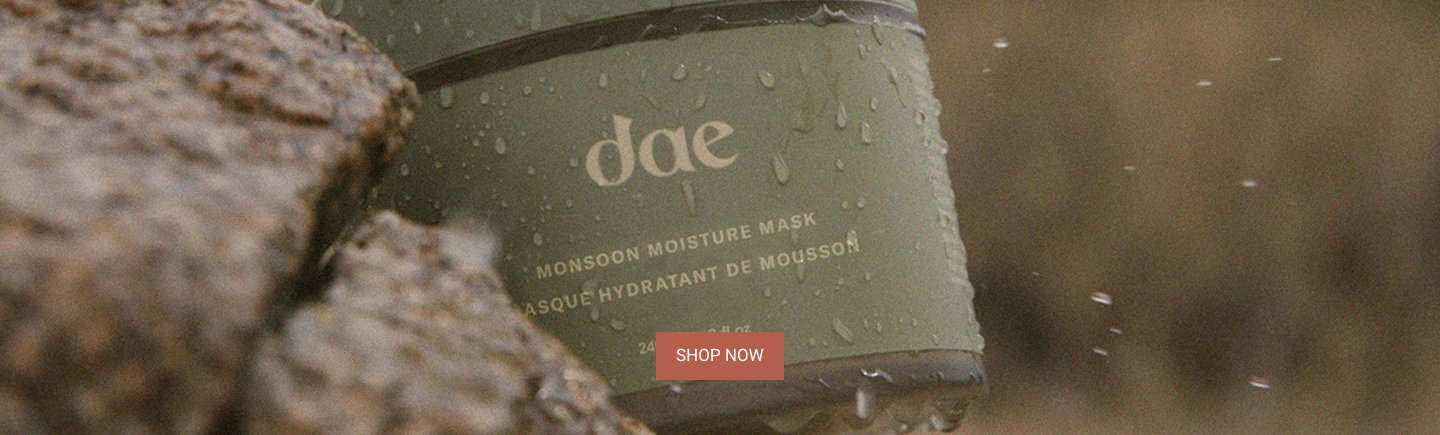
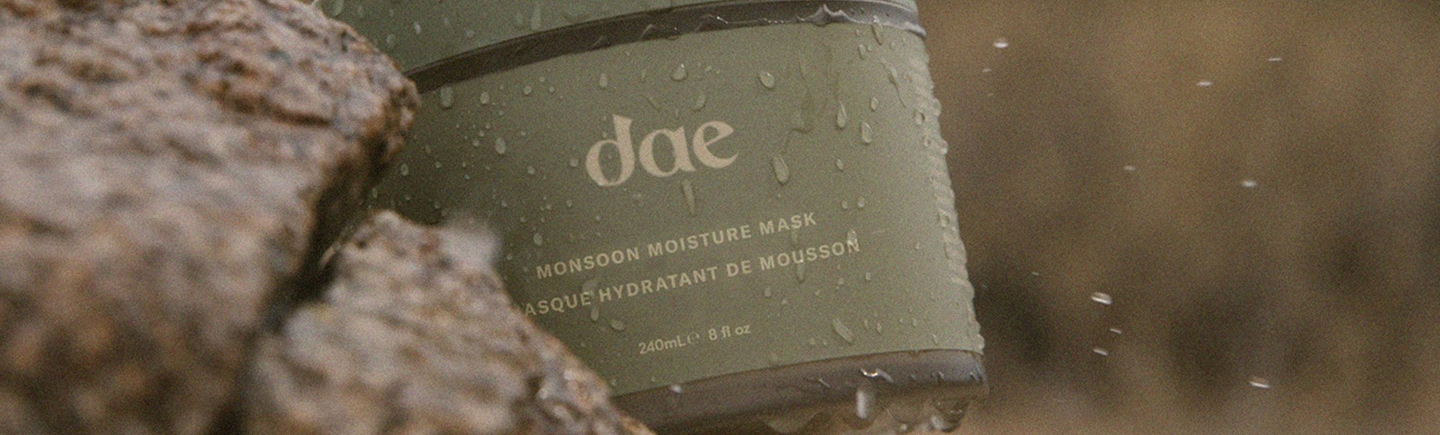
Добавлен блок header

Changed region(s): [[0.4375, 0.7471, 0.5625, 0.8966]]

diff --git a/css/main.css b/css/main.css
@@ -92,3 +92,130 @@ button {
   width: 1440px;
   margin: 0 auto;
 }
+/* header */
+.header {
+}
+.header__top {
+  padding-top: 10px;
+  background: #B36050;
+  font-family: var(--font-family);
+  font-weight: 400;
+  font-size: 17px;
+  line-height: 160%;
+  text-align: center;
+  color: #f1d3b9;
+  padding-bottom: 10px;
+}
+.header__row-flex {
+  padding-top: 8px;
+  padding-left: 6px;
+  padding-right: 10px;
+  background: #F6F4EC;
+  display: flex;
+  align-items: center;
+  padding-bottom: 7px;
+}
+.header__row-flex img[src="img/logo.png"] {
+  width: 120px;
+  margin: 0 auto;
+}
+.header__row-flex-menu {
+}
+.header__row-flex-menu-grid {
+  display: grid;
+  gap: 23px;
+  justify-items: center;
+  grid-template-columns: repeat(4, 1fr);
+  font-family: var(--font-family);
+  font-weight: 400;
+  font-size: 18px;
+  line-height: 160%;
+  text-transform: capitalize;
+  color: #b4604d;
+}
+.header__row-flex-account {
+  margin-left: auto;
+  display: flex;
+  font-family: var(--font-family);
+  font-weight: 400;
+  font-size: 14px;
+  line-height: 160%;
+  color: #b45f4d;
+}
+.header__row-flex-account a {
+  margin-right: 19px;
+}
+.header__row-flex-account img {
+  display: block;
+  margin-right: 10px;
+  width: 19px;
+  height: 21px;
+}
+.header__row-flex-account p {
+  font-size: 15px;
+}
+.header__bg {
+  background: url(../img/BG.png);
+  background-position: center;
+  background-size: cover;
+  height: 435px;
+  display: flex;
+  justify-content: center;
+}
+.header__bg a {
+
+}
+.btn {
+  display: block;
+  margin: 332px auto 0;
+  background: var(--rust);
+  width: 128px;
+  height: 48px;
+  font-family: var(--font-family);
+  font-weight: 400;
+  font-size: 17px;
+  line-height: 169%;
+  text-transform: uppercase;
+  color: #fff;
+  text-align: center;
+  align-content: center;
+}
+
+.header__title {
+  background: #A9AE8D;
+}
+.header__title h2,
+.header__title a,
+h1 {
+  padding-left: 70px;
+}
+.header__title h2 {
+  padding-top: 70px;
+  font-family: var(--font-family);
+  font-weight: 400;
+  font-size: 18px;
+  line-height: 160%;
+  text-transform: uppercase;
+  color: #f6f4ec;
+  text-transform: uppercase;
+}
+.header__title a {
+  display: block;
+  font-family: var(--font-family);
+  font-weight: 400;
+  font-size: 16px;
+  line-height: 170%;
+  color: #f6f4ec;
+  text-transform: capitalize;
+  padding-bottom: 70px;
+}
+h1 {
+  padding-top: 13px;
+  font-family: var(--font-family);
+  font-weight: 400;
+  font-size: 33px;
+  line-height: 194%;
+  color: #f6f4ec;
+  text-transform: capitalize;
+  padding-bottom: 31px;
+}

diff --git a/index.html b/index.html
@@ -8,6 +8,38 @@
   <title>Заголовок сайта</title>
 </head>
 <body>
+  <!-- header -->
+  <header class="header">
+    <div class="container">
+      <div class="header__top">
+        <p>Free Shipping on US Orders Over $60</p>
+      </div>
+      <div class="header__row-flex">
+        <div class="header__row-flex-menu">
+          <ul class="header__row-flex-menu-grid">
+            <li><a href="#">Shop</a></li>
+            <li><a href="#">The Edit</a></li>
+            <li><a href="#">Our Story</a></li>
+            <li><a href="#">Reviews</a></li>
+          </ul>
+        </div>
+        <img src="img/logo.png" alt="Logo">
+        <div class="header__row-flex-account">
+          <a href="#">Account</a>
+          <img src="img/basket.svg" alt="Basket">
+          <p>0</p>
+        </div>
+      </div>
+      <div class="header__bg">
+        <a class="btn" href="#">Shop Now</a>
+      </div>
+      <div class="header__title">
+        <h2>Ready To Get Drenched?</h2>
+        <h1>Meet monsoon Moisture Mask</h1>
+        <a href="#">Shop Now</a>
+      </div>
+    </div>
+  </header>
 
 </body>
 </html>
